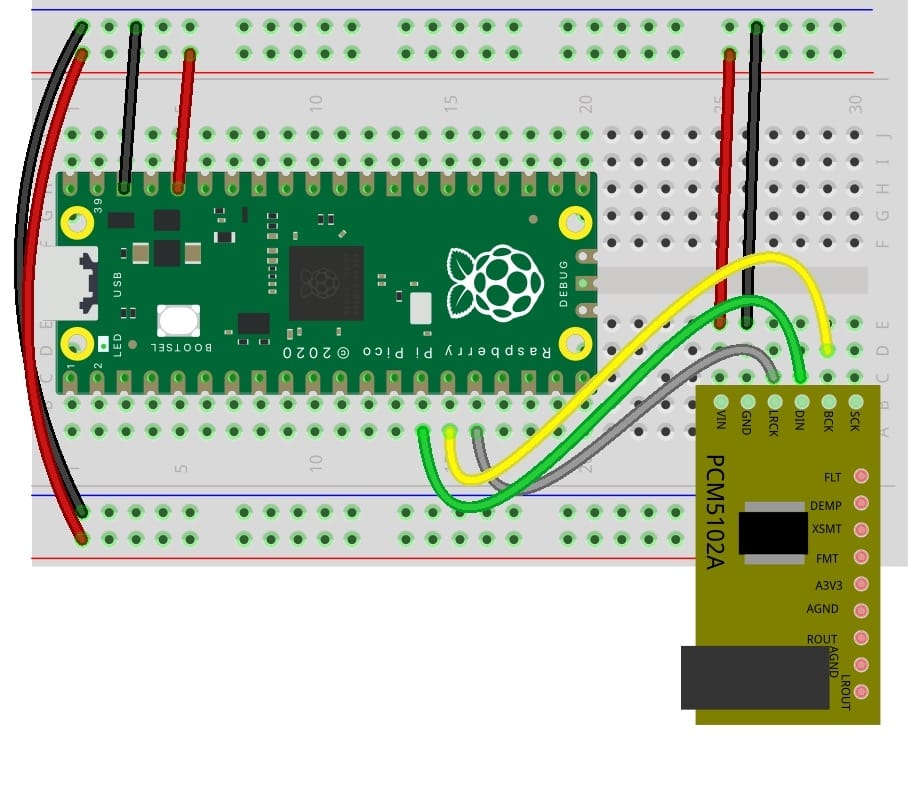
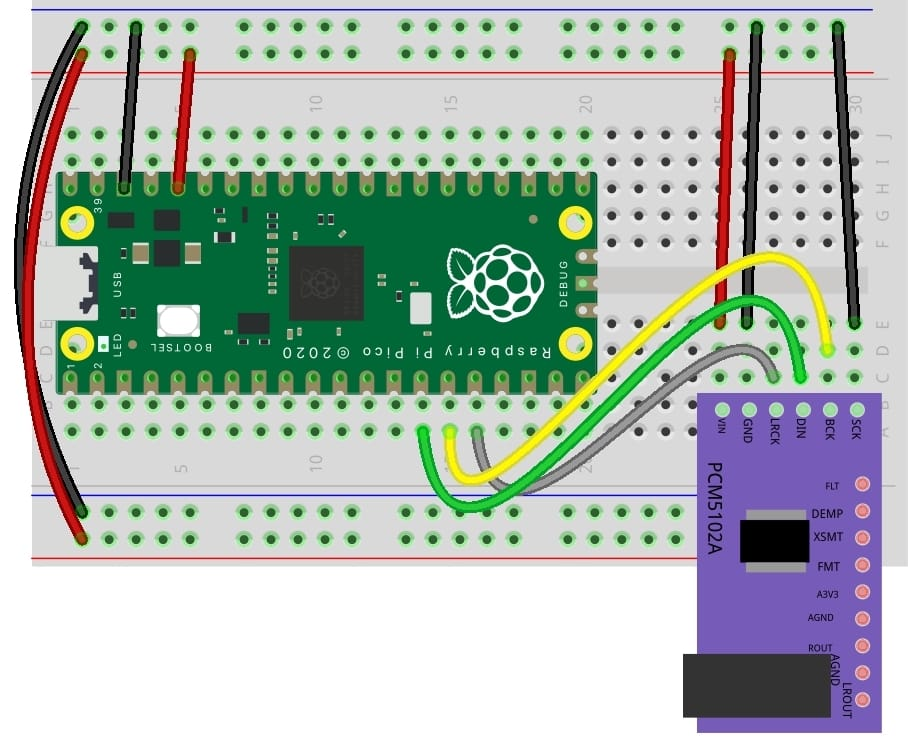
i2s pcm5102 color matches now

diff --git a/README.md b/README.md
@@ -393,7 +393,7 @@ while True:
 If you run this with the [Mu plotter](https://codewith.mu/en/tutorials/1.2/plotter)
 you'll see all three LFOs, and you can see how the "n" LFO's rate is being changed by the "m" LFO.
 
-<img src="./imgs/syntho_lfo_demo1.png" width=500>
+<img src="./imgs/synthio_lfo_demo1.png" width=500>
 
 
 #### Vibrato: pitch bend with LFO
